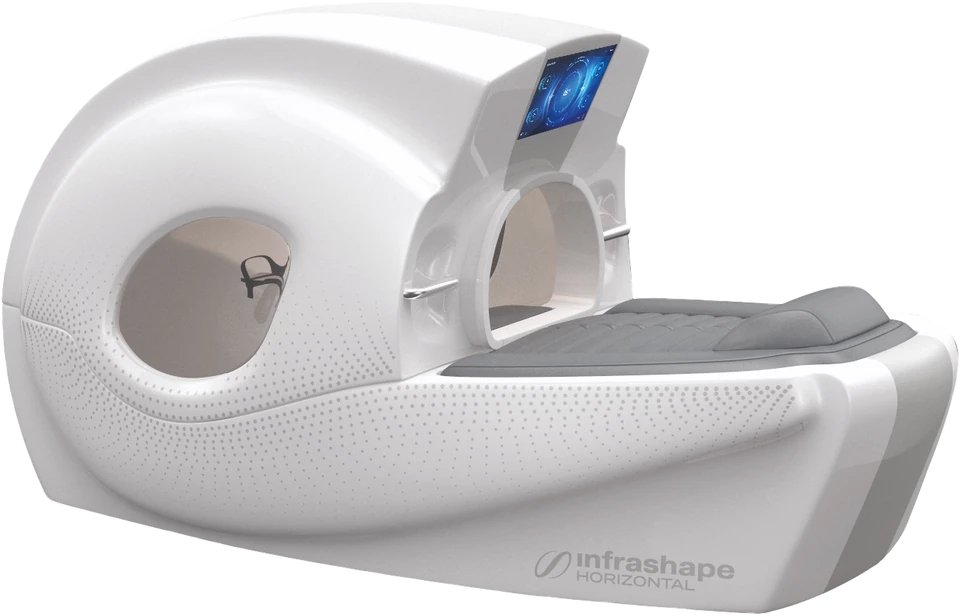
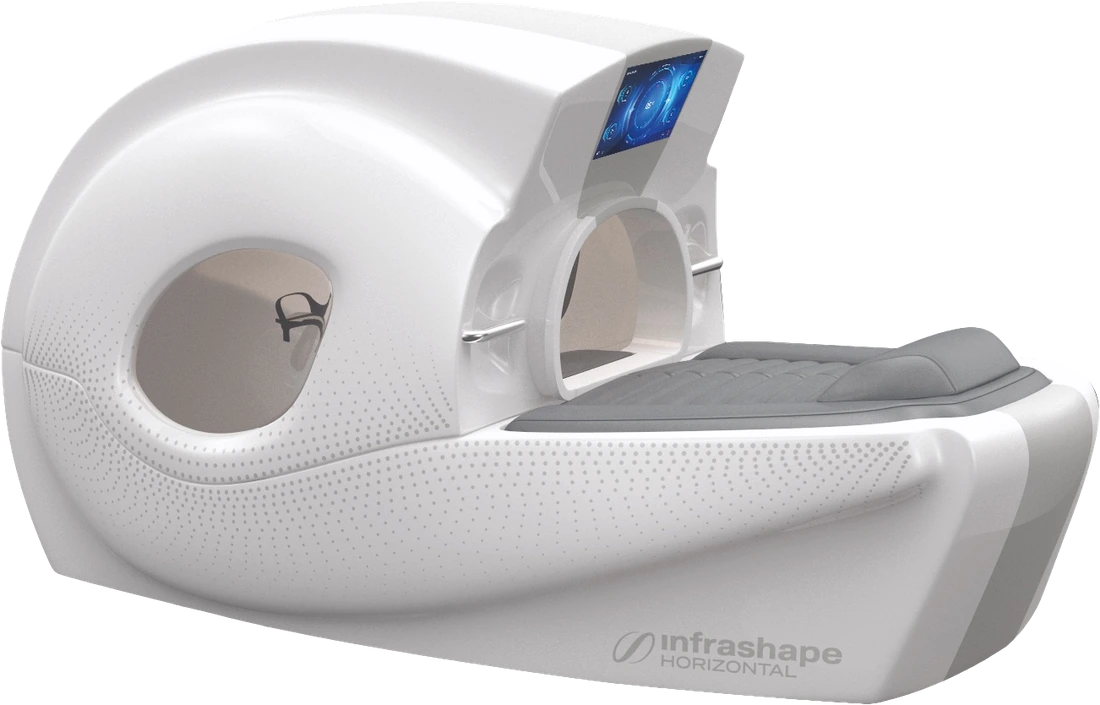
3D site: Infrashape kesimi yeniden yapıldı, kenarlar pürüzsüz
Dış hat segmentasyon modeliyle çıkarıldı, cam ve gövde korunarak yumuşatıldı.

Claude-Session: https://claude.ai/code/session_01XvpMot7LqxZbjZwDPzSGNi

diff --git a/site-3d/src/content.ts b/site-3d/src/content.ts
@@ -116,7 +116,7 @@ export const slides: Slide[] = [
 // Devices that have a transparent cut-out in public/devices/3d
 const CUTOUTS = new Set(['cryo-q-one', 'infra-step', 'rollshape', 'infrashape', 'vacuactiv', 'hydroshape', 'rollbeautyline', 'aquaslimmer', 'activshape', 'emfit-plus-neo'])
 // bump when a cutout file is replaced, so browsers drop the cached old image
-const CUTOUT_VERSION = '3'
+const CUTOUT_VERSION = '4'
 export const cutoutOf = (d: Device) => (CUTOUTS.has(d.slug) ? `${CLASSIC}devices/3d/${d.slug}.webp?v=${CUTOUT_VERSION}` : undefined)
 
 export const corporatePages = [
